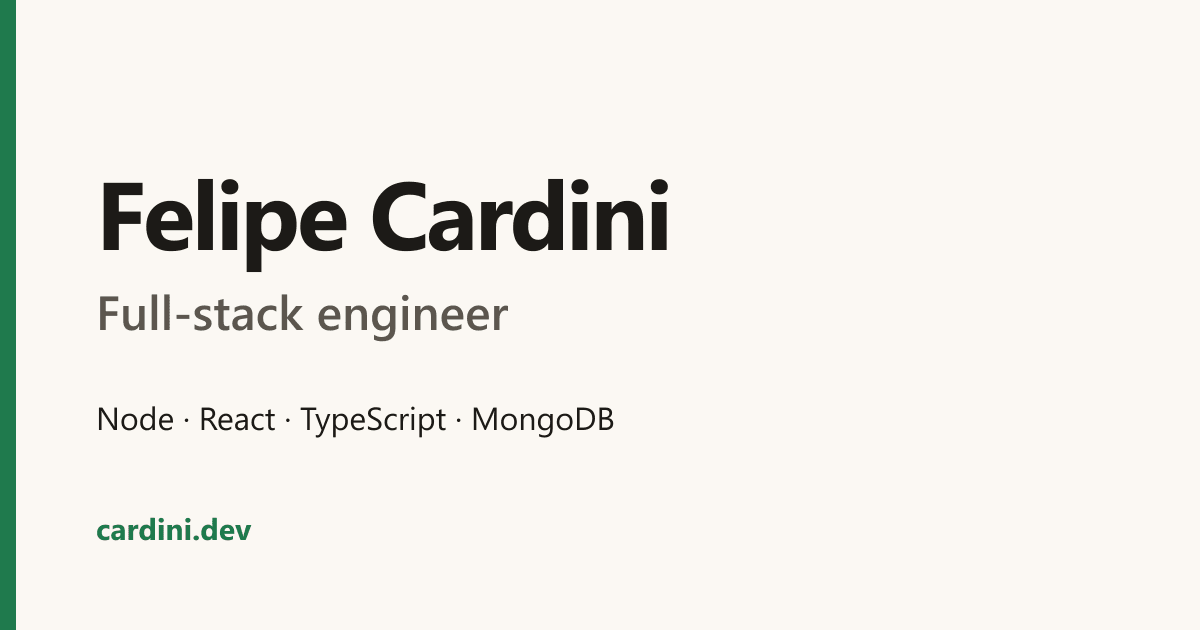
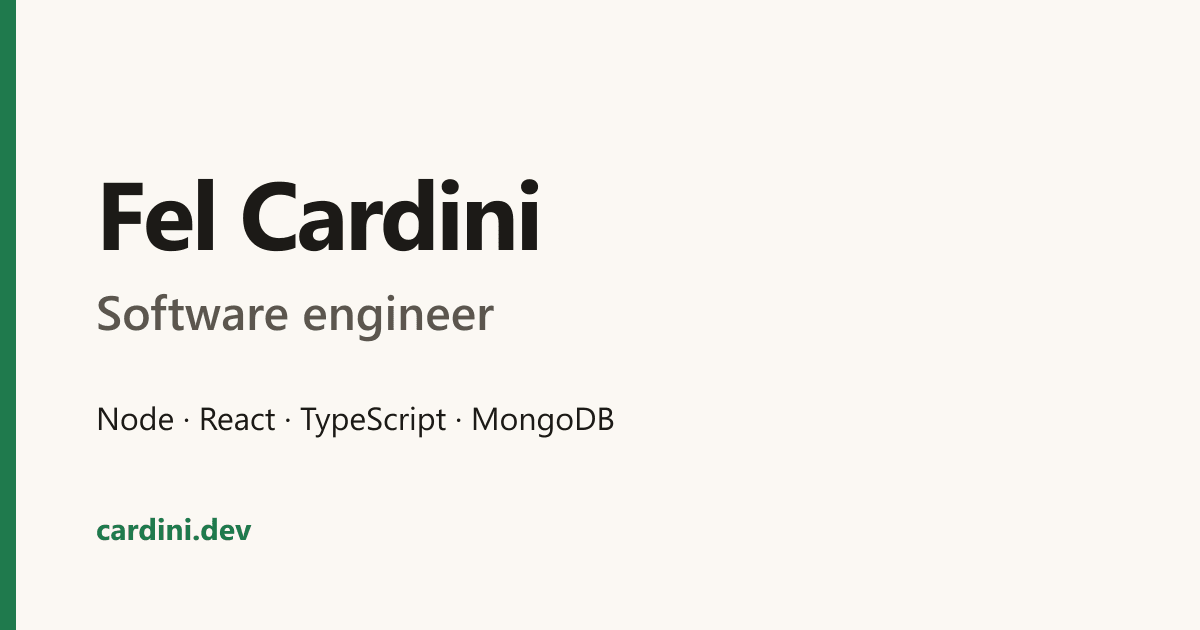
Ammend to Software Engineer

Changed region(s): [[0.185, 0.2714, 0.555, 0.4524], [0.0617, 0.4524, 0.4317, 0.5429]]

diff --git a/src/content/site.ts b/src/content/site.ts
@@ -64,11 +64,11 @@ export interface Site {
 }
 
 export const site: Site = {
-  name: 'Felipe Cardini',
-  role: 'Full-stack engineer.',
+  name: 'Fel Cardini',
+  role: 'Software engineer.',
   url: 'https://cardini.dev',
   description:
-    'Felipe Cardini, full-stack engineer (Node, React, TypeScript, MongoDB). Three years on the team building TRACE, the carbon measurement platform behind thousands of events. London.',
+    'Fel Cardini, software engineer (Node, React, TypeScript, MongoDB). Three years on the team building TRACE, the carbon measurement platform behind thousands of events. London.',
   email: 'hi@cardini.dev',
   links: {
     github: 'https://github.com/felcard',

diff --git a/README.md b/README.md
@@ -1,6 +1,6 @@
 # cardini.dev
 
-Felipe Cardini's portfolio. One static page, no client framework, about **18 KB** on first load.
+Fel Cardini's portfolio. One static page, no client framework, about **18 KB** on first load.
 
 Built with Astro + TypeScript (strict). All copy lives in [`src/content/site.ts`](src/content/site.ts). To change it, edit that file and push; the site redeploys automatically.
 
